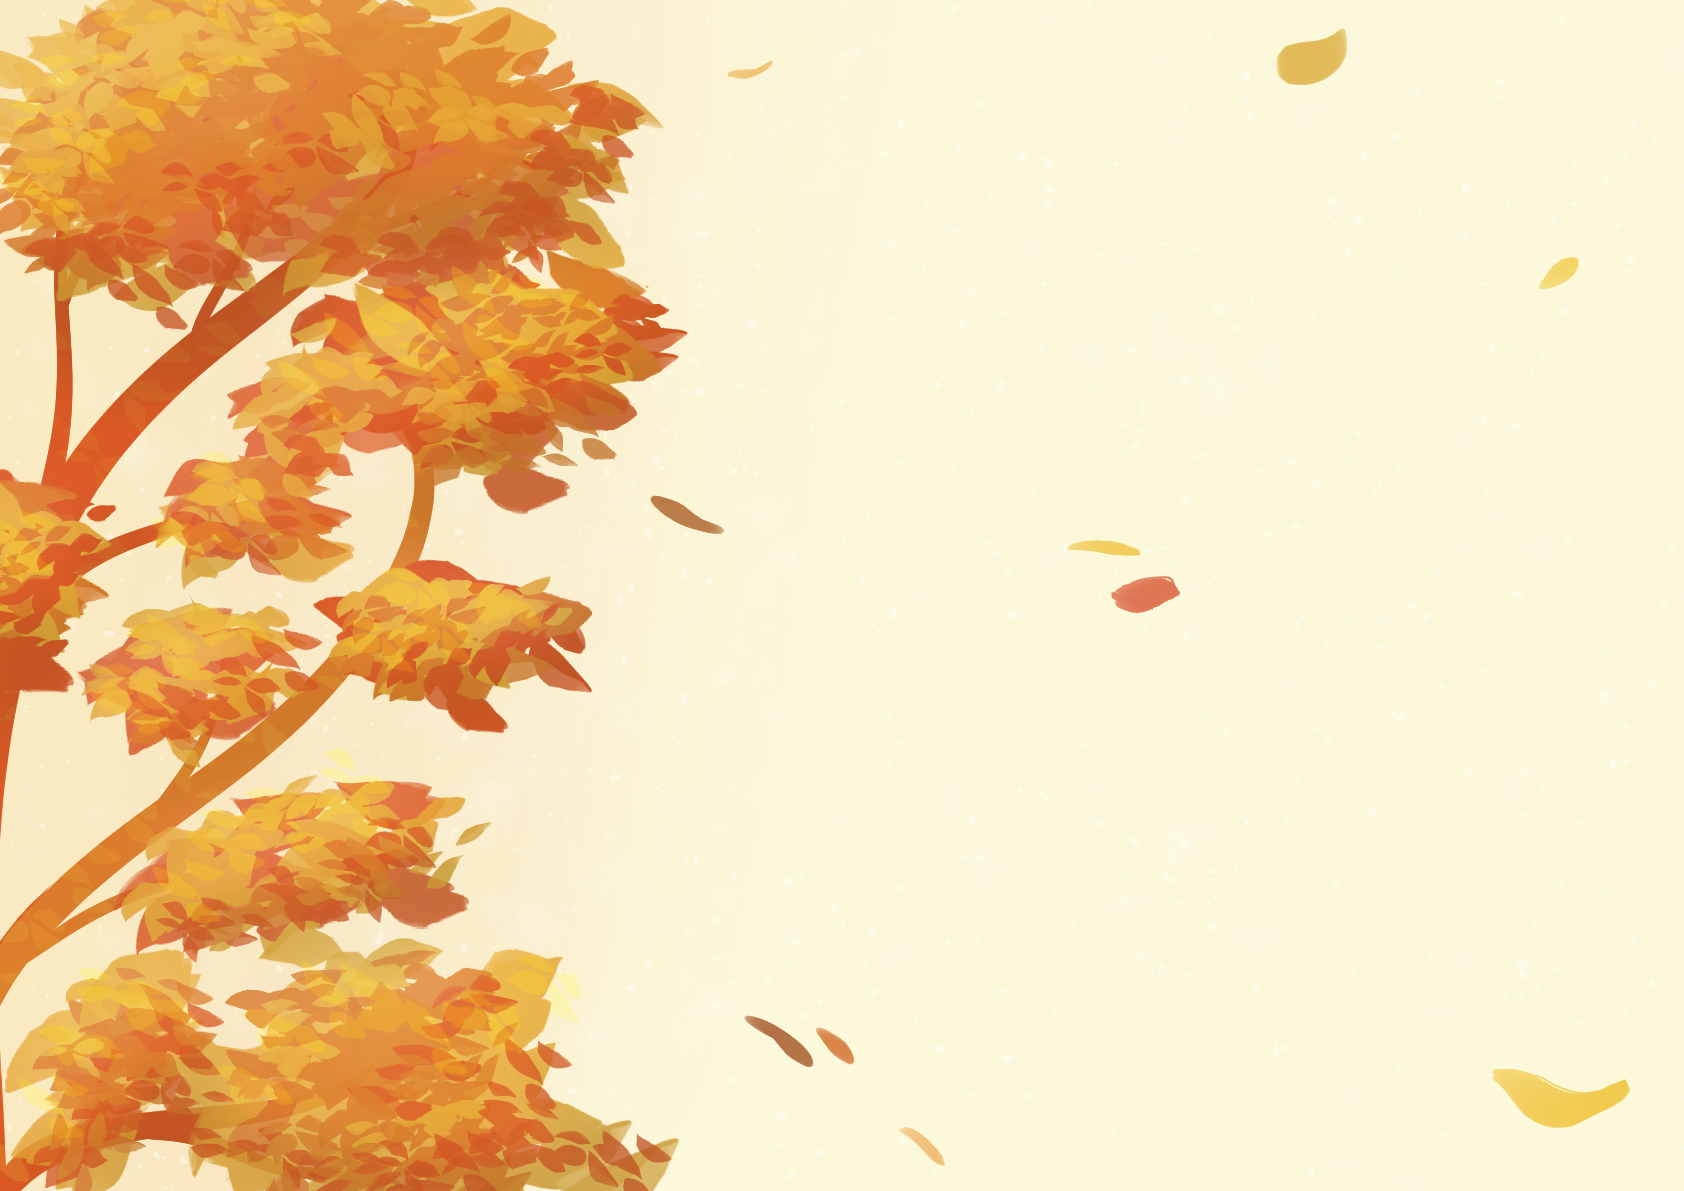
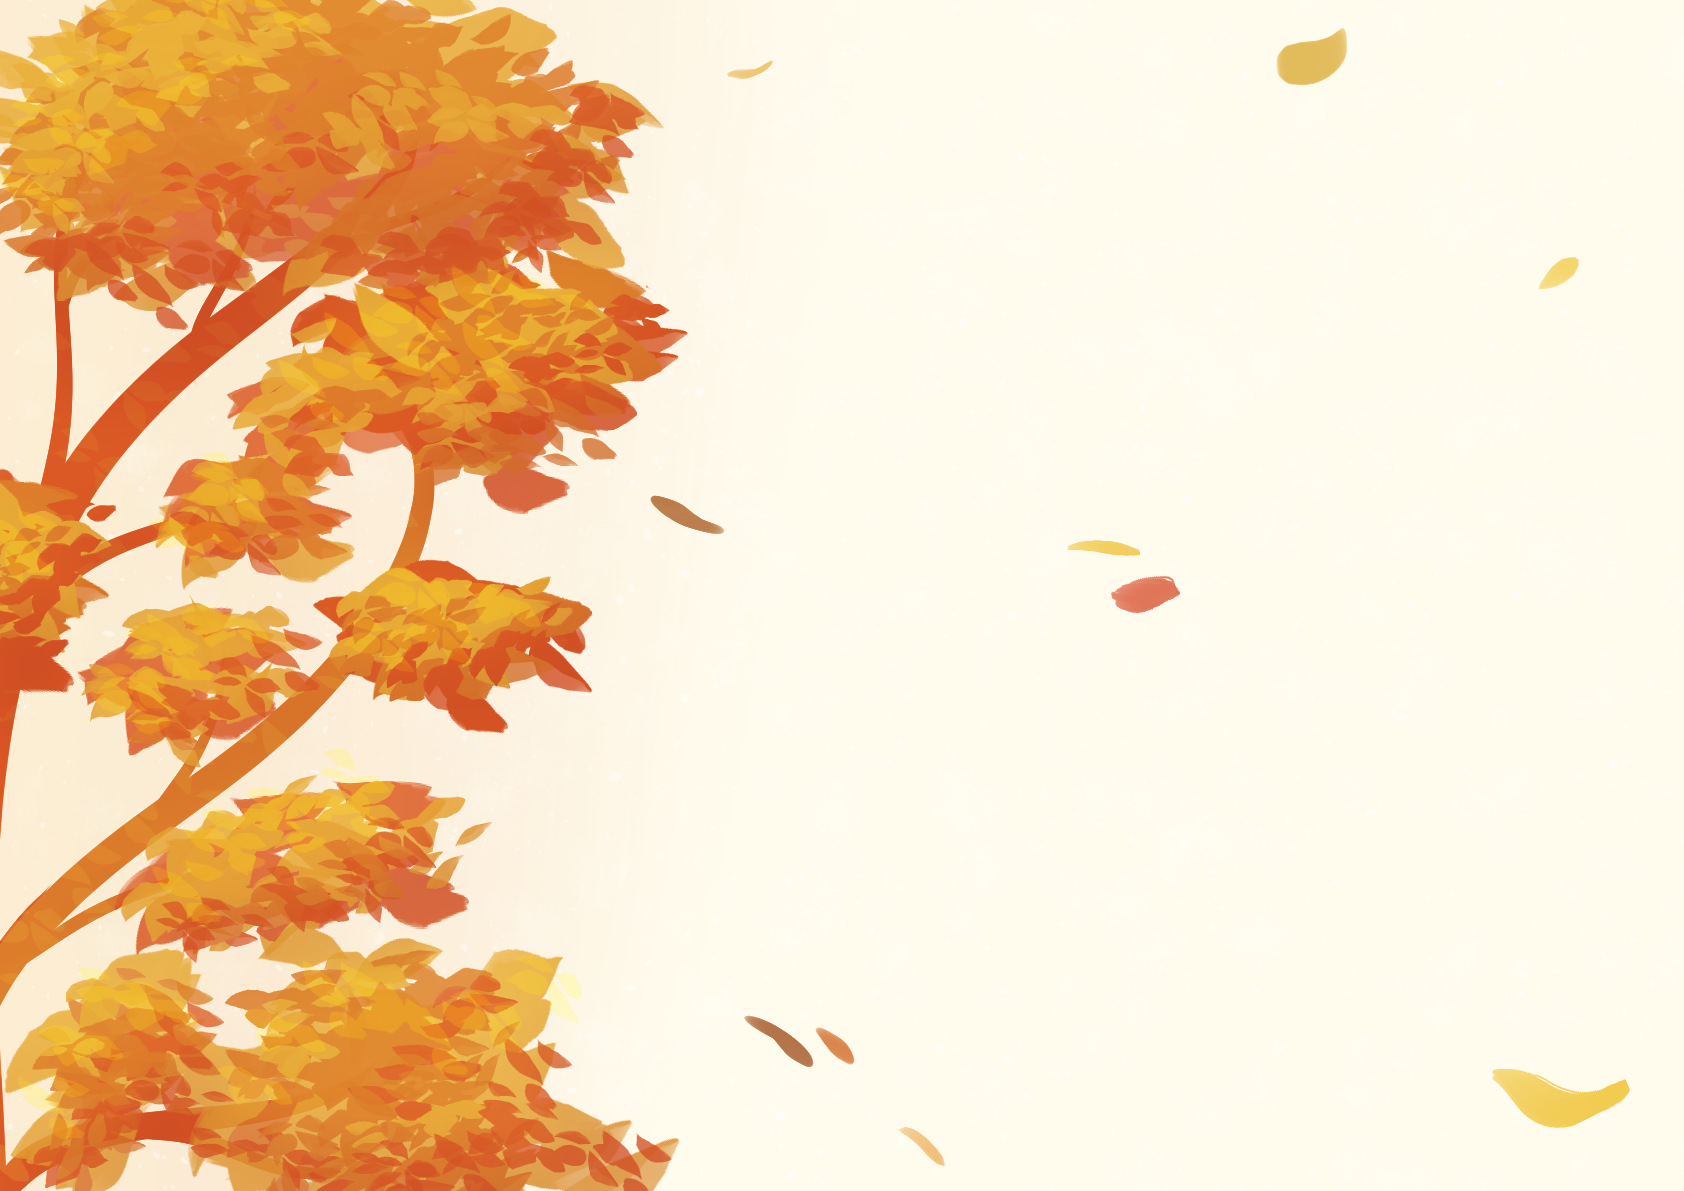
PLUS QUE LE CSS !!!!

diff --git a/portfolio.html b/portfolio.html
@@ -434,7 +434,6 @@
 
                     <div class="gallery-modal" id="galleryModalInktober" style="display: none;">
                         <div class="gallery-modal-content">
-                            <span class="close" onclick="closeGallery()">&times;</span>
                             <div class="gallery">
                                 <img src="assets/img/portfolio/inktober23/inktober-ensemble.png" width="500px" alt="Mosaïque des 31 dessins">
                                 <img src="assets/img/portfolio/inktober23/inktober_liste.jpg" width="500px" alt="Liste des thèmes de l'inktober">
@@ -456,7 +455,6 @@
 
                     <div class="gallery-modal" id="galleryModalRollABall" >
                         <div class="gallery-modal-content">
-                            <span class="close" onclick="closeGallery()">&times;</span>
                             <div class="gallery">
                                 <iframe width="650" height="450" src="https://www.youtube.com/embed/DpQMb_K9xPg?si=2kmA0Ua2Co6qft2T" title="YouTube video player" frameborder="0" allow="accelerometer; autoplay; clipboard-write; encrypted-media; gyroscope; picture-in-picture; web-share" allowfullscreen></iframe>
                                 <iframe width="650" height="450" src="https://www.youtube.com/embed/hMdnVAD2cpU?si=CYxq9dFlOI1Zdunp" title="YouTube video player" frameborder="0" allow="accelerometer; autoplay; clipboard-write; encrypted-media; gyroscope; picture-in-picture; web-share" allowfullscreen></iframe>
@@ -585,7 +583,6 @@
                     <!-- Galerie qui s'affiche dans un modal après clic -->
                     <div class="gallery-modal" id="galleryModalRouenFigma" style="display: none;">
                         <div class="gallery-modal-content">
-                            <span class="close" onclick="closeGallery()">&times;</span>
                             <div class="gallery">
                                 <img src="assets/img/portfolio/rouen-figma1.png" class="img-fluid" alt="Première page du 'nouveau' site de Rouen.">
                                 <img src="assets/img/portfolio/rouen-figma2.png" class="img-fluid" alt="Deuxième page du 'nouveau' site de Rouen.">
@@ -616,7 +613,6 @@
                     <!-- Galerie modale (affichage sur clic) -->
                     <div class="gallery-modal" id="galleryModalppp" style="display: none;">
                         <div class="gallery-modal-content">
-                            <span class="close" onclick="closeGallery()">&times;</span>
                             <div class="gallery">
                                 <a href="assets/download/ppp_pdf.pdf" target="_blank" style="text-decoration:underline">Document final</a>
                             </div>
@@ -685,7 +681,6 @@
                     <!-- Galerie modale pour vidéo et image -->
                     <div class="gallery-modal" id="galleryModalOr3o" style="display: none;">
                         <div class="gallery-modal-content">
-                            <span class="close" onclick="closeGallery()">&times;</span>
                             <div class="gallery">
                                 <iframe width="700" height="450" 
                                         src="https://www.youtube.com/embed/TRG72vlBCUY?si=Pi9OIcMUfpbNWWOV" 
@@ -761,7 +756,6 @@
                     <!-- Galerie modale -->
                     <div class="gallery-modal" id="galleryModalOmniversus" style="display: none;">
                         <div class="gallery-modal-content">
-                            <span class="close" onclick="closeGallery()">&times;</span>
                             <div class="gallery">
                                 <iframe width="700" height="450" 
                                         src="https://www.youtube.com/embed/Nc-OSfFKBGc?si=bg-Z_edX5Wa-977e" 
@@ -799,7 +793,6 @@
                     <!-- Galerie modale -->
                     <div class="gallery-modal" id="galleryModalAnimalCrossing" style="display: none;">
                         <div class="gallery-modal-content">
-                            <span class="close" onclick="closeGallery()">&times;</span>
                             <div class="gallery">
                                 <iframe width="700" height="450" 
                                         src="https://www.youtube.com/embed/Qi4d-1JzrA8?si=hdzXeUQ5PytxGTb2" 
@@ -873,7 +866,6 @@
                     <!-- Galerie modale (affichage sur clic) -->
                     <div class="gallery-modal" id="galleryModal" style="display: none;">
                         <div class="gallery-modal-content">
-                            <span class="close" onclick="closeGallery()">&times;</span>
                             <div class="gallery">
                                 <img src="assets/img/portfolio/crea_grapg_picto.gif" width="600px" alt="Gif des pictogrammes">
                                 <img src="assets/img/portfolio/crea_graph_mont_1.jpg" width="600px" alt="Montage pictogrammes sur les murs">
@@ -1051,7 +1043,6 @@
                     <!-- Galerie modale -->
                     <div class="gallery-modal" id="galleryModalMascottes" style="display: none;">
                         <div class="gallery-modal-content">
-                            <span class="close" onclick="closeGallery()">&times;</span>
                             <div class="gallery">
                                 <img src="assets/img/portfolio/parry (2).png" width="400px" alt="Mascotte Parry">
                                 <img src="assets/img/portfolio/splif.png" width="500px" alt="Mascotte Splif">
@@ -1100,7 +1091,6 @@
                     <!-- Galerie qui s'affiche dans un modal après clic -->
                     <div class="gallery-modal" id="galleryModal" style="display: none;">
                         <div class="gallery-modal-content">
-                            <span class="close" onclick="closeGallery()">&times;</span>
                             <div class="gallery">
                                 <img src="assets/img/portfolio/sae105_accueil.jpg" class="img-fluid" alt="Page d'accueil du site Suki-Burger">
                                 <img src="assets/img/portfolio/sae105_menu.jpg" class="img-fluid" alt="Page du menu Suki-Burger">
@@ -1156,6 +1146,8 @@
                 </div>                
             </div>
         </div>
+
+        <div id="display-media" class="display-media"></div>
 
     </div>
 
@@ -1264,8 +1256,27 @@ document.addEventListener("DOMContentLoaded", function() {
     applyFilter("all");
 });
 
+document.addEventListener("DOMContentLoaded", function () {
+    const cards = document.querySelectorAll(".card-details");
+    const mediaContainer = document.getElementById("display-media"); // Le conteneur global
 
- </script>
+    cards.forEach(card => {
+        card.addEventListener("click", function () {
+            const cardMedia = this.querySelector(".display-media"); // Récupère le media de la carte cliquée
+            
+            if (cardMedia) {
+                mediaContainer.innerHTML = ""; // Nettoie le conteneur global
+                const clonedMedia = cardMedia.cloneNode(true); // Clone le media
+                clonedMedia.style.display = "block"; // S'assurer qu'il est bien visible
+                mediaContainer.appendChild(clonedMedia); // L'afficher dans le conteneur global
+            }
+        });
+    });
+});
+
+
+
+    </script>
  <script src="https://code.jquery.com/jquery-3.6.0.min.js"></script>
  <script src="assets/js/main.js"></script>
 </body>
